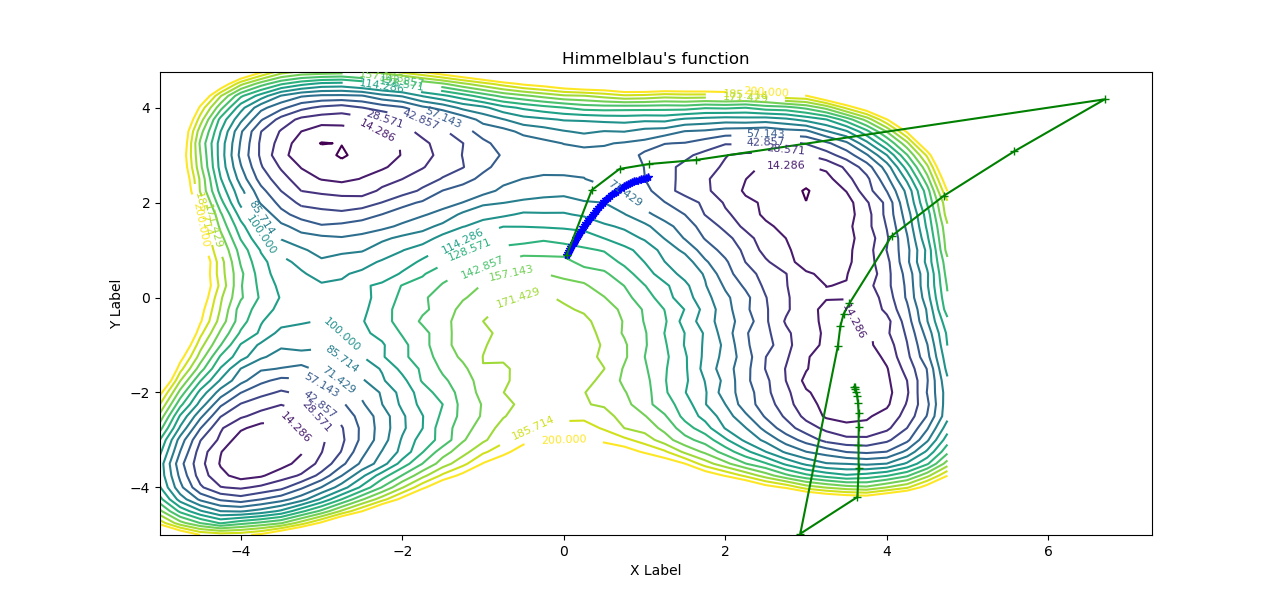
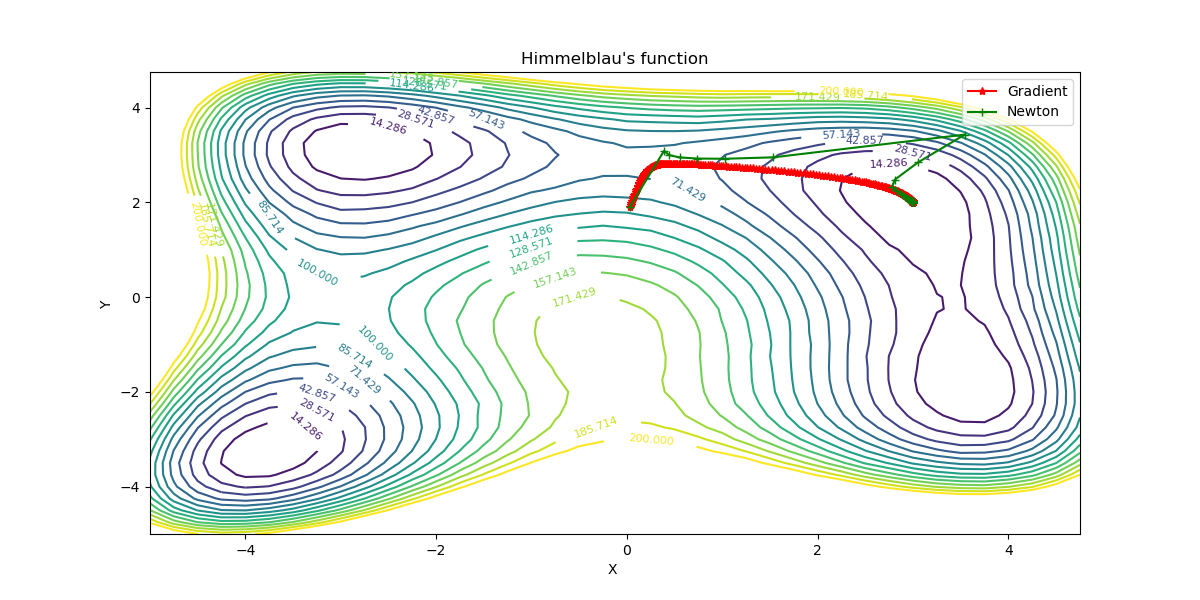
- good plot

Changed region(s): [[0.0925, 0.09, 0.925, 0.93], [0.0617, 0.48, 0.1233, 0.51], [0.4933, 0.93, 0.5242, 0.96]]

diff --git a/Newton-vs-gradient.py b/Newton-vs-gradient.py
@@ -17,50 +17,61 @@ from matplotlib.pyplot import plot, ion, show
 import matplotlib.pyplot as plt
 from matplotlib import cm
 import numpy as np
-mu, sigma = 0, 2  # mean and standard deviation
+mu, sigma = 0, 0.5  # mean and standard deviation
 
 # ################################################################################
-# Gradient or Cauchy method
+# Gradient descent or Cauchy method
 # First order method
-def gradient_descent(max_iterations, threshold, XY_init,
-                     obj_func, grad_func, extra_param=[],
-                     learning_rate=0.05, momentum=0.8):
+def gradient_descent(max_iters, threshold, XY_init,
+                     func, grad_func,
+                     learning_rate=0.05, extra_param=[]):
     X, Y = XY_init
     w = np.array([X, Y])
     w_history = X, Y
-    f_history = obj_func(X, Y, extra_param)
+    f_history = func(X, Y, extra_param)
     delta_w = np.zeros(XY_init.shape)
     i = 0
-    diff = 1.0e9
+    # start diff |f2 - f1| for stop criteria
+    diff_f = 1.0e10
+    eps_history_f = np.array([0.0])
+    eps_history_xy = np.array([0.0 , 0.0])
 
-    while i < max_iterations and diff > threshold:
+    while i < max_iters and diff_f >= threshold:
         delta_w = -learning_rate * grad_func(w[0], w[1], extra_param)
         w = w + delta_w
         # store the history of w and f
         w_history = np.vstack((w_history, w))
-        f_history = np.vstack((f_history, obj_func(w[0], w[1], extra_param)))
+        f_history = np.vstack((f_history, func(w[0], w[1], extra_param)))
         i += 1
-        diff = np.absolute(f_history[-1] - f_history[-2])
+        diff_f = np.absolute(func(3.0, 2.0,extra_param) - f_history[-1])
+        # diff_f = np.absolute(f_history[-1] - f_history[-2])
+        diff_xy = np.absolute(w_history[-1] - w_history[-2])
 
-    return w_history, f_history
+        eps_history_f = np.vstack((eps_history_f, diff_f))
+        eps_history_xy = np.vstack((eps_history_xy, diff_xy))
+
+    return w_history, f_history, eps_history_f, eps_history_xy
 
 # ################################################################################
 # Newton's method
 # Second order method
-def Newtons_descent(max_iterations, threshold, XY_init,
-                     obj_func, grad_func, second_grad, extra_param=[],
-                     learning_rate=0.05, momentum=0.8):
+def Newtons_method(max_iters, threshold, XY_init,
+                     func, grad_func, second_grad,
+                     learning_rate=0.05, extra_param=[]):
     X, Y = XY_init
     w = np.array([X, Y])
     w_history_N = X, Y
-    f_history_N = obj_func(X, Y, extra_param)
+    f_history_N = func(X, Y, extra_param)
     delta_w = np.zeros(XY_init.shape)
     i = 0
-    diff = 1.0e9
+    # start diff |f2 - f1| for stop criteria
+    diff_f = 1.0e10
+    eps_history_N = np.array([0.0])
+    eps_history_xy_N = np.array([0.0 , 0.0])
 
-    while i < max_iterations and diff > threshold:
-        print(grad_func(w[0], w[1], extra_param))
-        print(np.linalg.inv(second_grad(w[0], w[1], extra_param)))
+    while i < max_iters and diff_f >= threshold:
+        # print(grad_func(w[0], w[1], extra_param))
+        # print(np.linalg.inv(second_grad(w[0], w[1], extra_param)))
         # Inverse Hessian matrix of second derivatives.
         inverseHessian = np.linalg.inv(second_grad(w[0], w[1], extra_param))
         # Hessian step calculation, it is not define descent direction.
@@ -73,12 +84,17 @@ def Newtons_descent(max_iterations, threshold, XY_init,
         w = w + delta_w
         # store the history of w and f
         w_history_N = np.vstack((w_history_N, w))
-        f_history_N = np.vstack((f_history_N, obj_func(w[0], w[1], extra_param)))
+        f_history_N = np.vstack((f_history_N, func(w[0], w[1], extra_param)))
+
         i += 1
-        diff = np.absolute(f_history_N[-1] - f_history_N[-2])
+        diff_f = np.absolute(func(3.0, 2.0,extra_param) - f_history_N[-1])
+        # diff_f = np.absolute(f_history_N[-1] - f_history_N[-2])
 
-    return w_history_N, f_history_N
+        diff_xy = np.absolute(w_history_N[-1] - w_history_N[-2])
 
+        eps_history_N = np.vstack((eps_history_N, diff_f))
+        eps_history_xy_N= np.vstack((eps_history_xy_N, diff_xy))
+    return w_history_N, f_history_N, eps_history_N, eps_history_xy_N
 
 # ################################################################################
 def plot_function(noised=False):
@@ -100,9 +116,9 @@ def plot_function(noised=False):
     ax = fig.gca(projection='3d')
     surf = ax.plot_surface(X, Y, Z, cmap=cm.coolwarm,
                            linewidth=0, antialiased=False)
-    ax.set_xlabel('X Label')
-    ax.set_ylabel('Y Label')
-    ax.set_zlabel('Z Label')
+    ax.set_xlabel('X ')
+    ax.set_ylabel('Y ')
+    ax.set_zlabel('Z ')
     return X, Y, Z
 
 # ################################################################################
@@ -142,40 +158,49 @@ def second_grad(X, Y, extra=[]):
     return np.array([[dx2, dxy], [dyx, dy2]])
 
 # ################################################################################
-# gradient descent
+# Start main code
+# ################################################################################
 X, Y, Z = plot_function(noised=True)
 rand = np.random.RandomState(23)
-XY_init = rand.uniform(-0.5, 0.5, 2)
+# XY_init = rand.uniform(-0.5, 0.5, 2)
 # XY_init = np.array([3.5, -2])
 # XY_init = np.array([-2, -1.9])
+XY_init = np.array([0.03, 1.9])
 
 learning_rates = [0.05, 0.2, 0.5, 0.8]
 max_iter = 500
-threshold = 0.1
-w_history, f_history = gradient_descent(max_iter, threshold, XY_init, f, grad, [], learning_rate=0.001, momentum=0.8)
+threshold = 0.0001
+# Gradient descent
+w_history, f_history, eps_history, eps_history_xy_G = gradient_descent(max_iter, threshold, XY_init, f, grad,  learning_rate=0.001)
 print("Grad")
 print(w_history)
 print(f_history)
-w_history_N, f_history_N = Newtons_descent(max_iter, threshold, XY_init, f, grad,second_grad, [], learning_rate=0.5, momentum=0.8)
+# Newton descent
+w_history_N, f_history_N, eps_history_N, eps_history_xy_N = Newtons_method(max_iter, threshold, XY_init, f, grad, second_grad,  learning_rate=0.5)
 print("Newton")
 print(w_history_N)
 print(f_history_N)
 # ################################################################################
-# Plotting
+# end main code
+# ################################################################################
+# Plotting surface and trace of optimal point search
 fig = plt.figure()
 ax = fig.add_subplot(111, projection='3d')
 
-ax.scatter(X, Y, Z, c='r')
-ax.scatter(w_history[:, 0], w_history[:, 1], f_history[:, 0], 'xb-')
-ax.scatter(w_history_N[:, 0], w_history_N[:, 1], f_history_N[:, 0], 'xg-')
+# mesh3d = ax.scatter(X, Y, Z, cm='b')
+mesh3d = ax.plot_wireframe(X, Y, Z)
+plt.setp(mesh3d, 'color', 'b', 'linewidth', 0.2)
+ax.scatter(w_history[:, 0], w_history[:, 1], f_history[:, 0],  marker='+', alpha=0.5, c='r')
+ax.scatter(w_history_N[:, 0], w_history_N[:, 1], f_history_N[:, 0], marker='+', alpha=0.5, c='g' )
 
-ax.set_xlabel('X Label')
-ax.set_ylabel('Y Label')
-ax.set_zlabel('Z Label')
+ax.set_xlabel('X ')
+ax.set_ylabel('Y ')
+ax.set_zlabel('Z ')
 # plt.plot(w_history[:, 0], w_history[:, 1],f_history, 'ro')
+
 ## coloring couttour line
 fig.show()
-
+names = ['Gradient', 'Newton']
 fig, ax = plt.subplots()
 # CS = ax.contour(X, Y, Z)
 # lev = [1, 2, 3, 4, 6, 10, 20, 40, 100, 900]
@@ -185,13 +210,75 @@ CS = plt.contour(X, Y, Z, levels=lev)
 # ax.clabel(CS, inline=1, fontsize=10, manual=manual_locations)
 ax.clabel(CS, inline=1, fontsize=8)
 ax.set_title('Himmelblau\'s function')
-ax.plot(w_history[:, 0], w_history[:, 1],  'b*-')
-ax.plot(w_history_N[:, 0], w_history_N[:, 1],  'g+-')
-ax.set_xlabel('X Label')
-ax.set_ylabel('Y Label')
+ax.plot(w_history[:, 0], w_history[:, 1],  'r*-', label=names[0])
+ax.plot(w_history_N[:, 0], w_history_N[:, 1],  'g+-', label=names[1])
+plt.legend()
+ax.set_xlabel('X ')
+ax.set_ylabel('Y ')
 fig.set_figwidth(12)    #  ширина и
 fig.set_figheight(6)    #  высота "Figure"
-show()
 fig.savefig('images//Figure_4.png')
+print("Plotting contour complete")
 
-print("Plotting complete")
+# ################################################################################
+# Convergence of function f(x,y) plotting: Newton vs Gradient
+plt.figure(figsize=(4, 2))
+plt.subplot(411)
+e_Gradent_line = plt.plot(eps_history, label = 'Gradient')
+plt.setp(e_Gradent_line, 'color', 'r', 'linewidth', 1.1)
+# plt.xlabel('n, iterations')
+plt.ylabel('$\epsilon$ ')
+# plt.title('$\epsilon$,  Gradient')
+plt.grid(True)
+plt.axis([0, 300, 0, 100])
+plt.legend()
+
+
+plt.subplot(412)
+e_Newton_line = plt.plot(eps_history_N, label = 'Newton')
+plt.setp(e_Newton_line, 'color', 'g', 'linewidth', 1.1)
+# plt.xlabel('n, iterations')
+plt.ylabel('$\epsilon$')
+# plt.title('$\epsilon$, Newton')
+plt.grid(True)
+plt.axis([0, 300, 0, 100])
+plt.legend()
+
+# plt.set_xlabel('X Label')
+# plt.set_ylabel('Y Label')
+plt.suptitle('Functions and arguments convergence ')
+
+# Convergence of argument [x,y] plotting: Newton vs Gradient
+
+# names = ['eps Gradient', 'eps Newton']
+plt.subplot(413)
+# e_Gradent_line = plt.plot(eps_history_xy_G)
+e_Gradent_line = plt.plot(w_history[:,0], label = 'x')
+plt.setp(e_Gradent_line, 'color', 'r', 'linewidth', 1.2)
+e_Gradent_line = plt.plot(w_history[:,1], label = 'y')
+plt.setp(e_Gradent_line, 'color', 'r', 'linewidth', 1.2)
+# plt.xlabel('n, iterations')
+plt.ylabel('Gradient desc. args, $[x,y]$')
+# plt.title('Conv. to optimal argument,  Gradient')
+plt.grid(True)
+plt.axis([0, 300, 0, 4])
+plt.legend()
+
+
+plt.subplot(414)
+# e_Newton_line = plt.plot(eps_history_xy_N)
+e_Newton_line = plt.plot(w_history_N[:,0],  label = 'x')
+plt.setp(e_Newton_line, 'color', 'lime', 'linewidth', 1.2)
+e_Newton_line = plt.plot(w_history_N[:,1],  label = 'y')
+plt.setp(e_Newton_line, 'color', 'g', 'linewidth', 1.2)
+plt.xlabel('n, iterations')
+plt.ylabel('Newton args, $[x,y]$')
+# plt.title('Conv. to optimal argument,  Newton')
+plt.grid(True)
+plt.axis([0, 300, 0, 4])
+plt.legend()
+
+show()
+print("Plotting convergence complete")
+
+
